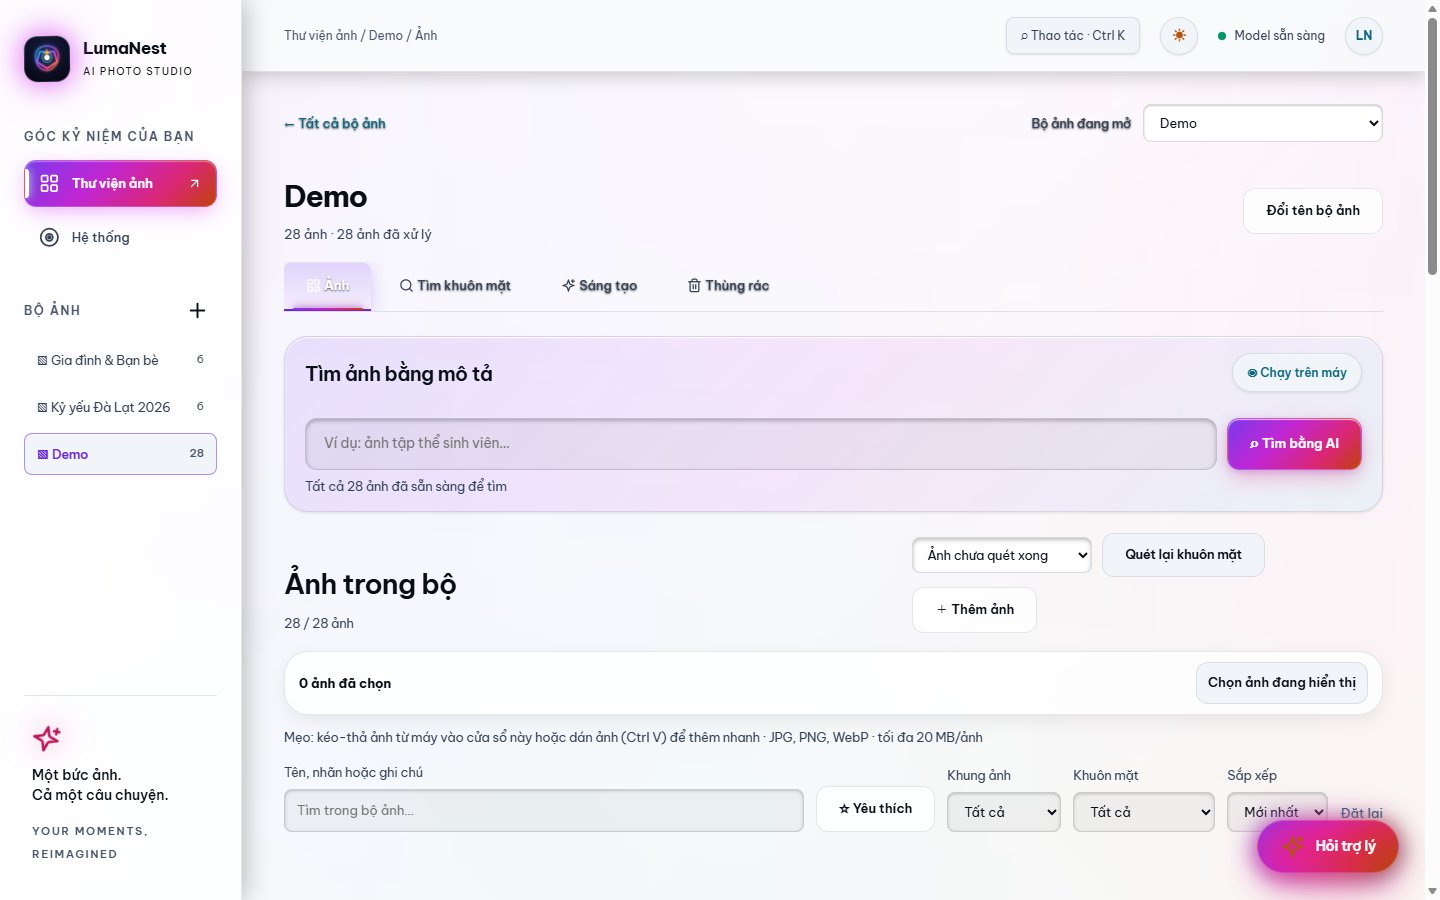
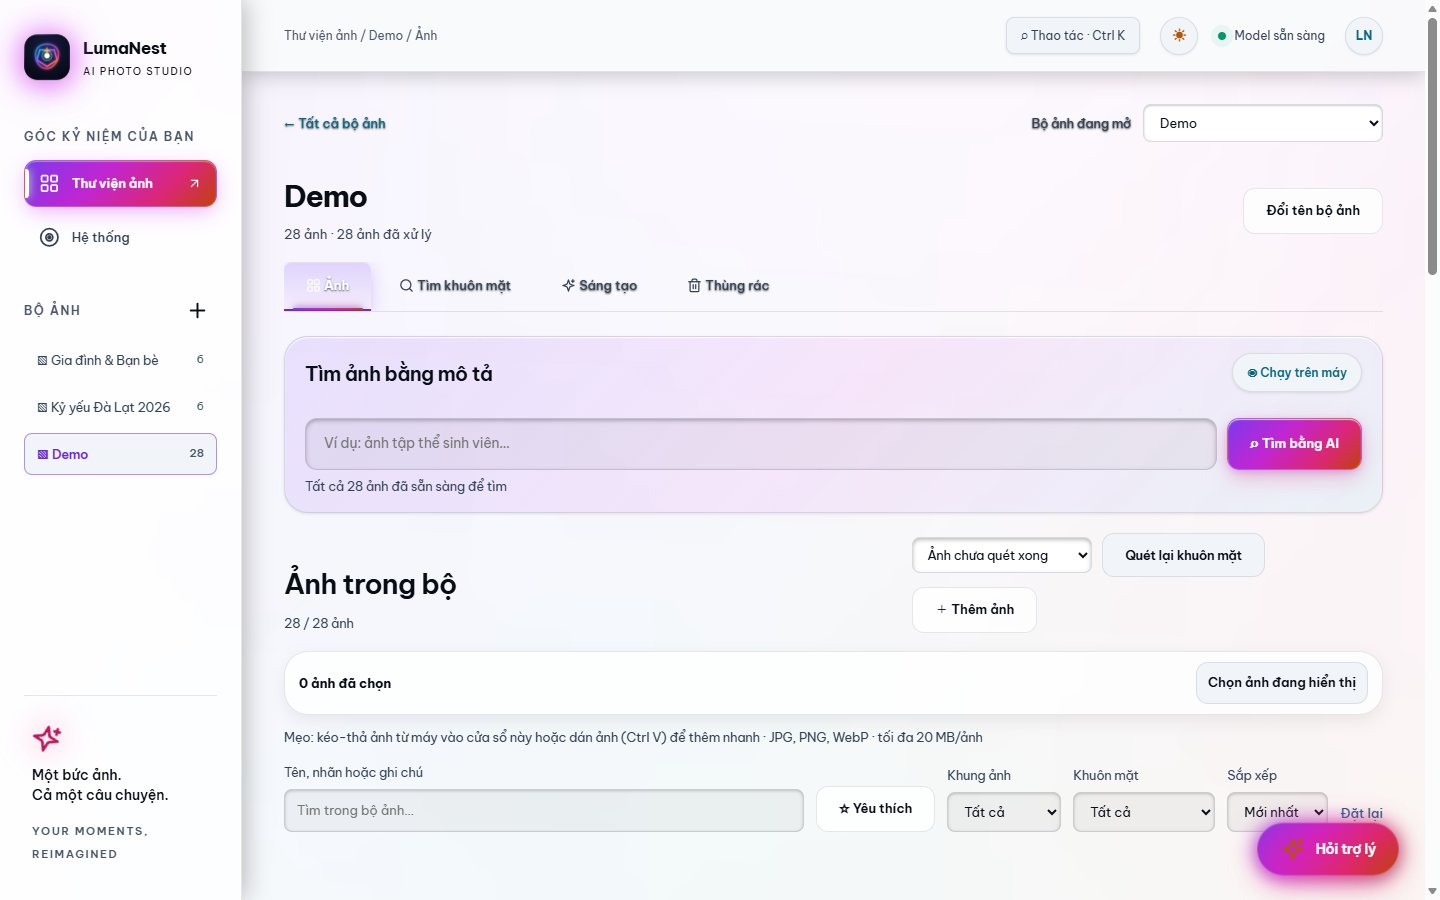
fix(a11y): use theme-aware --eyebrow tokens for >= 5.7:1 contrast in light mode and >= 7.5:1 in dark mode

Changed region(s): [[0.875, 0.9022, 0.9688, 0.9956], [0.0, 0.0311, 0.0625, 0.0933], [0.7812, 0.5911, 0.8438, 0.6222]]

diff --git a/fsmart/static/index.html b/fsmart/static/index.html
@@ -4,14 +4,14 @@
   <meta charset="utf-8"><meta name="viewport" content="width=device-width, initial-scale=1">
   <meta name="theme-color" content="#070913"><meta name="description" content="LumaNest: thư viện ảnh AI riêng tư, tìm khuôn mặt và sáng tạo nghệ thuật trên máy."><title>LumaNest — AI Photo Studio</title>
   <link rel="icon" type="image/svg+xml" href="/static/lumanest.svg">
-  <script src="/static/theme.js?v=20261106-aurora5"></script>
-  <link rel="stylesheet" href="/static/fonts.css?v=20261106-aurora5">
-  <link rel="stylesheet" href="/static/theme.css?v=20261106-aurora5">
-  <link rel="stylesheet" href="/static/style.css?v=20261106-aurora5"><link rel="stylesheet" href="/static/bulk.css?v=20261106-aurora5"><link rel="stylesheet" href="/static/search.css?v=20261106-aurora5"><link rel="stylesheet" href="/static/chat.css?v=20261106-aurora5"><link rel="stylesheet" href="/static/audit.css?v=20261106-aurora5"><link rel="stylesheet" href="/static/collections.css?v=20261106-aurora5"><link rel="stylesheet" href="/static/photo-tools.css?v=20261106-aurora5">
-  <link rel="stylesheet" href="/static/modern.css?v=20261106-aurora5"><link rel="stylesheet" href="/static/studio.css?v=20261106-aurora5"><link rel="stylesheet" href="/static/viewer.css?v=20261106-aurora5"><link rel="stylesheet" href="/static/comfort.css?v=20261106-aurora5">
-  <script src="/static/fx/aurora-bg.js?v=20261106-aurora5" defer></script>
-  <script src="/static/app.js?v=20261106-aurora5" defer></script><script src="/static/photo-picker.js?v=20261106-aurora5" defer></script><script src="/static/search.js?v=20261106-aurora5" defer></script><script src="/static/style-chat.js?v=20261106-aurora5" defer></script><script src="/static/chat.js?v=20261106-aurora5" defer></script><script src="/static/bulk.js?v=20261106-aurora5" defer></script><script src="/static/workspace.js?v=20261106-aurora5" defer></script><script src="/static/system.js?v=20261106-aurora5" defer></script><script src="/static/photo-actions.js?v=20261106-aurora5" defer></script><script src="/static/modern.js?v=20261106-aurora5" defer></script><script src="/static/studio.js?v=20261106-aurora5" defer></script><script src="/static/collections.js?v=20261106-aurora5" defer></script>
-  <script src="/static/style-library.js?v=20261106-aurora5" defer></script>
+  <script src="/static/theme.js?v=20261106-aurora6"></script>
+  <link rel="stylesheet" href="/static/fonts.css?v=20261106-aurora6">
+  <link rel="stylesheet" href="/static/theme.css?v=20261106-aurora6">
+  <link rel="stylesheet" href="/static/style.css?v=20261106-aurora6"><link rel="stylesheet" href="/static/bulk.css?v=20261106-aurora6"><link rel="stylesheet" href="/static/search.css?v=20261106-aurora6"><link rel="stylesheet" href="/static/chat.css?v=20261106-aurora6"><link rel="stylesheet" href="/static/audit.css?v=20261106-aurora6"><link rel="stylesheet" href="/static/collections.css?v=20261106-aurora6"><link rel="stylesheet" href="/static/photo-tools.css?v=20261106-aurora6">
+  <link rel="stylesheet" href="/static/modern.css?v=20261106-aurora6"><link rel="stylesheet" href="/static/studio.css?v=20261106-aurora6"><link rel="stylesheet" href="/static/viewer.css?v=20261106-aurora6"><link rel="stylesheet" href="/static/comfort.css?v=20261106-aurora6">
+  <script src="/static/fx/aurora-bg.js?v=20261106-aurora6" defer></script>
+  <script src="/static/app.js?v=20261106-aurora6" defer></script><script src="/static/photo-picker.js?v=20261106-aurora6" defer></script><script src="/static/search.js?v=20261106-aurora6" defer></script><script src="/static/style-chat.js?v=20261106-aurora6" defer></script><script src="/static/chat.js?v=20261106-aurora6" defer></script><script src="/static/bulk.js?v=20261106-aurora6" defer></script><script src="/static/workspace.js?v=20261106-aurora6" defer></script><script src="/static/system.js?v=20261106-aurora6" defer></script><script src="/static/photo-actions.js?v=20261106-aurora6" defer></script><script src="/static/modern.js?v=20261106-aurora6" defer></script><script src="/static/studio.js?v=20261106-aurora6" defer></script><script src="/static/collections.js?v=20261106-aurora6" defer></script>
+  <script src="/static/style-library.js?v=20261106-aurora6" defer></script>
 </head>
 <body>
 <aside class="sidebar">

diff --git a/fsmart/static/theme.css b/fsmart/static/theme.css
@@ -41,6 +41,11 @@
     --on-scrim-muted: rgba(255, 255, 255, 0.85);
     --star-gold: #fbbf24;
 
+    /* Eyebrow Tokens */
+    --eyebrow: #f472b6;
+    --eyebrow-shadow: 0 1px 3px rgba(0, 0, 0, 0.8);
+    --eyebrow-dot: #f472b6;
+
     /* Aurora Brand Jewels */
     --accent-violet: #9f80f8;
     --accent-fuchsia: #d946ef;
@@ -214,6 +219,11 @@
     --scrim: rgba(15, 23, 42, 0.72);
     --on-scrim: #ffffff;
     --on-scrim-muted: rgba(255, 255, 255, 0.9);
+
+    /* Eyebrow Tokens */
+    --eyebrow: #be185d;
+    --eyebrow-shadow: none;
+    --eyebrow-dot: #be185d;
 
     --accent-violet: #6d28d9;
     --accent-fuchsia: #c026d3;

diff --git a/fsmart/static/style.css b/fsmart/static/style.css
@@ -523,16 +523,16 @@ main {
   font-weight: 700;
   letter-spacing: 2px;
   margin-bottom: 16px;
-  color: #f472b6;
-  text-shadow: 0 1px 3px rgba(0, 0, 0, 0.8);
+  color: var(--eyebrow);
+  text-shadow: var(--eyebrow-shadow);
 }
 
 .eyebrow > span {
-  background: var(--accent-pink);
+  background: var(--eyebrow-dot);
   width: 7px;
   height: 7px;
   border-radius: 50%;
-  box-shadow: 0 0 10px var(--accent-pink);
+  box-shadow: 0 0 10px var(--eyebrow-dot);
 }
 
 .hero-description {
